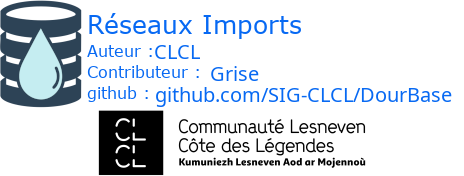
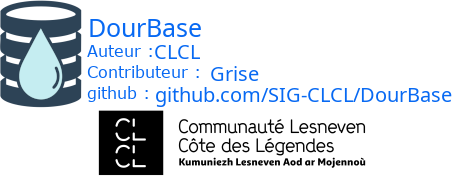
updated plugin name

Changed region(s): [[0.181, 0.0852, 0.6638, 0.2273]]

diff --git a/README.MD b/README.MD
@@ -1,6 +1,6 @@
 ![banner](https://raw.githubusercontent.com/SIG-CLCL/DourBase/refs/heads/master/banner.png)
 
-**Réseaux Imports** est une extension QGIS conçue pour simplifier l'intégration des plans de récolement conformes au cahier des charges GéoPaysdeBrest. Elle inclut également la gestion des identifiants grâce au plugin rsxident de Géodis. De plus, elle permet de mettre à jour les données entre la base de travail et la base de consultation.
+**DourBase** est une extension QGIS conçue pour simplifier l'intégration des plans de récolement conformes au cahier des charges GéoPaysdeBrest. Elle inclut également la gestion des identifiants grâce au plugin rsxident de Géodis. De plus, elle permet de mettre à jour les données entre la base de travail et la base de consultation.
 
 
 ## Fonctionnalités principales
@@ -24,7 +24,7 @@ Contact : [sig@clcl.hzh](mailto:sig@clcl.hzh)
 
 ![banner](https://raw.githubusercontent.com/SIG-CLCL/DourBase/refs/heads/master/banner.png)
 
-**Réseaux Imports** is a QGIS extension designed to simplify the integration of as-built plans compliant with the GéoPaysdeBrest specifications. It also includes the management of identifiers through the rsxident plugin by Géodis. Additionally, it allows for updating data between the working database and the consultation database.
+**DourBase** is a QGIS extension designed to simplify the integration of as-built plans compliant with the GéoPaysdeBrest specifications. It also includes the management of identifiers through the rsxident plugin by Géodis. Additionally, it allows for updating data between the working database and the consultation database.
 
 ## Main Features
 
